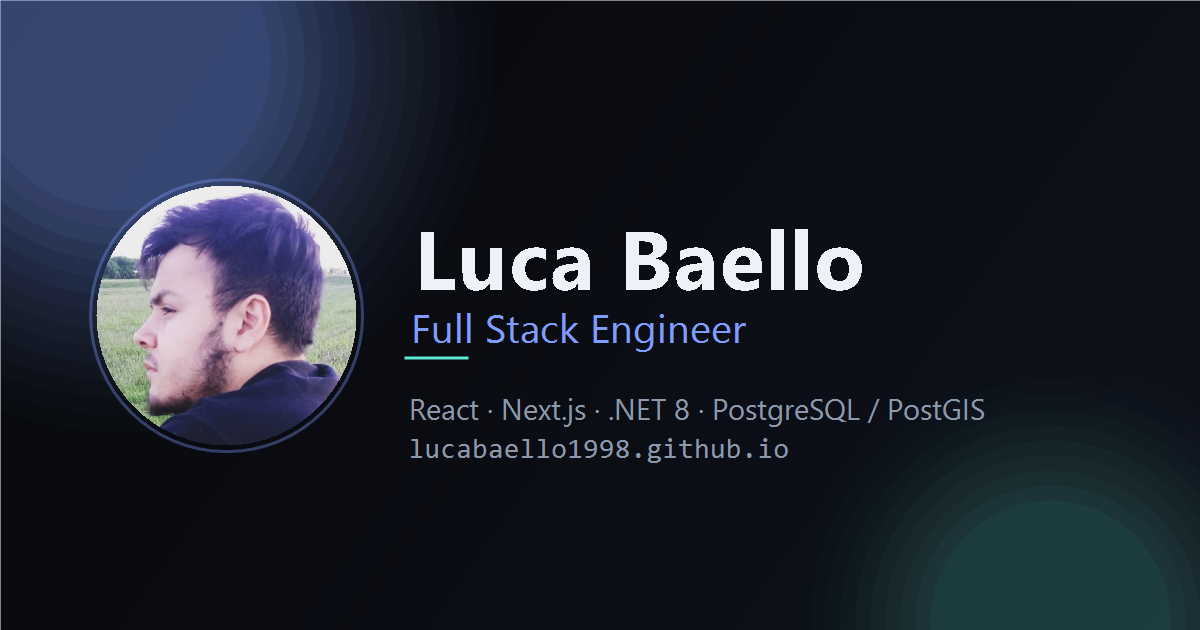
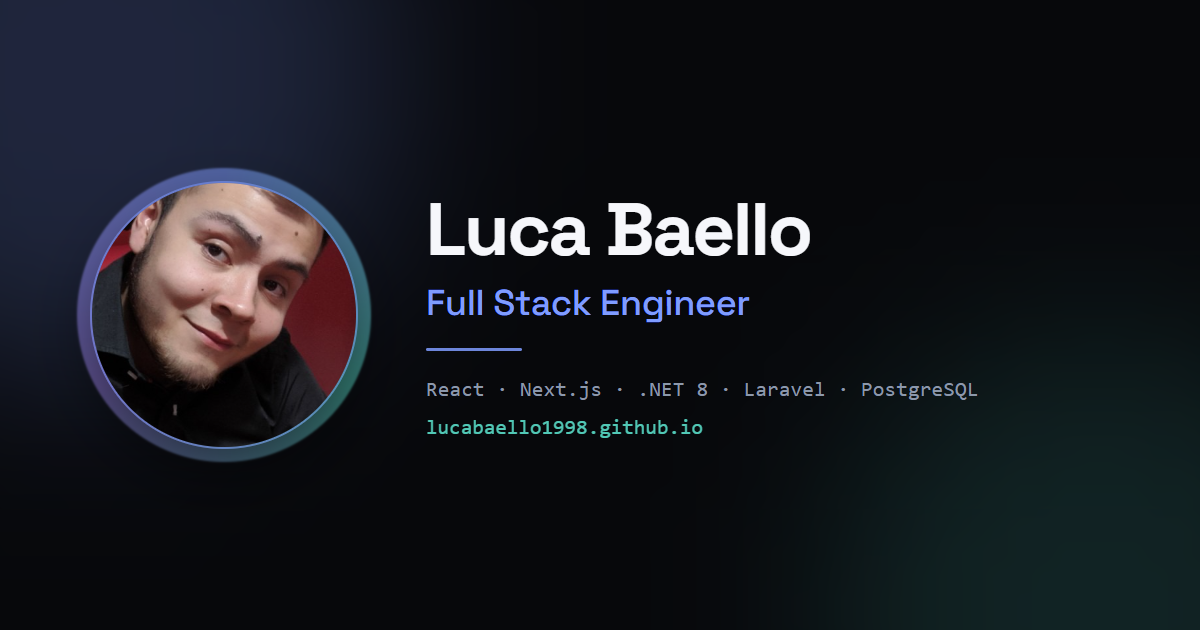
feat: nueva foto de perfil y og image acorde

diff --git a/index.html b/index.html
@@ -169,7 +169,7 @@
       <div class="portrait" data-reveal="scale" style="--delay:120ms">
         <div class="portrait-ring" aria-hidden="true"></div>
         <div class="portrait-frame">
-          <img src="assets/img/avatar.jpg" alt="Luca Nicolás Baello" width="560" height="560" fetchpriority="high">
+          <img src="assets/img/avatar.jpg" alt="Luca Nicolás Baello" width="400" height="400" fetchpriority="high">
         </div>
         <div class="portrait-badge">
           <span class="dot" aria-hidden="true"></span>
